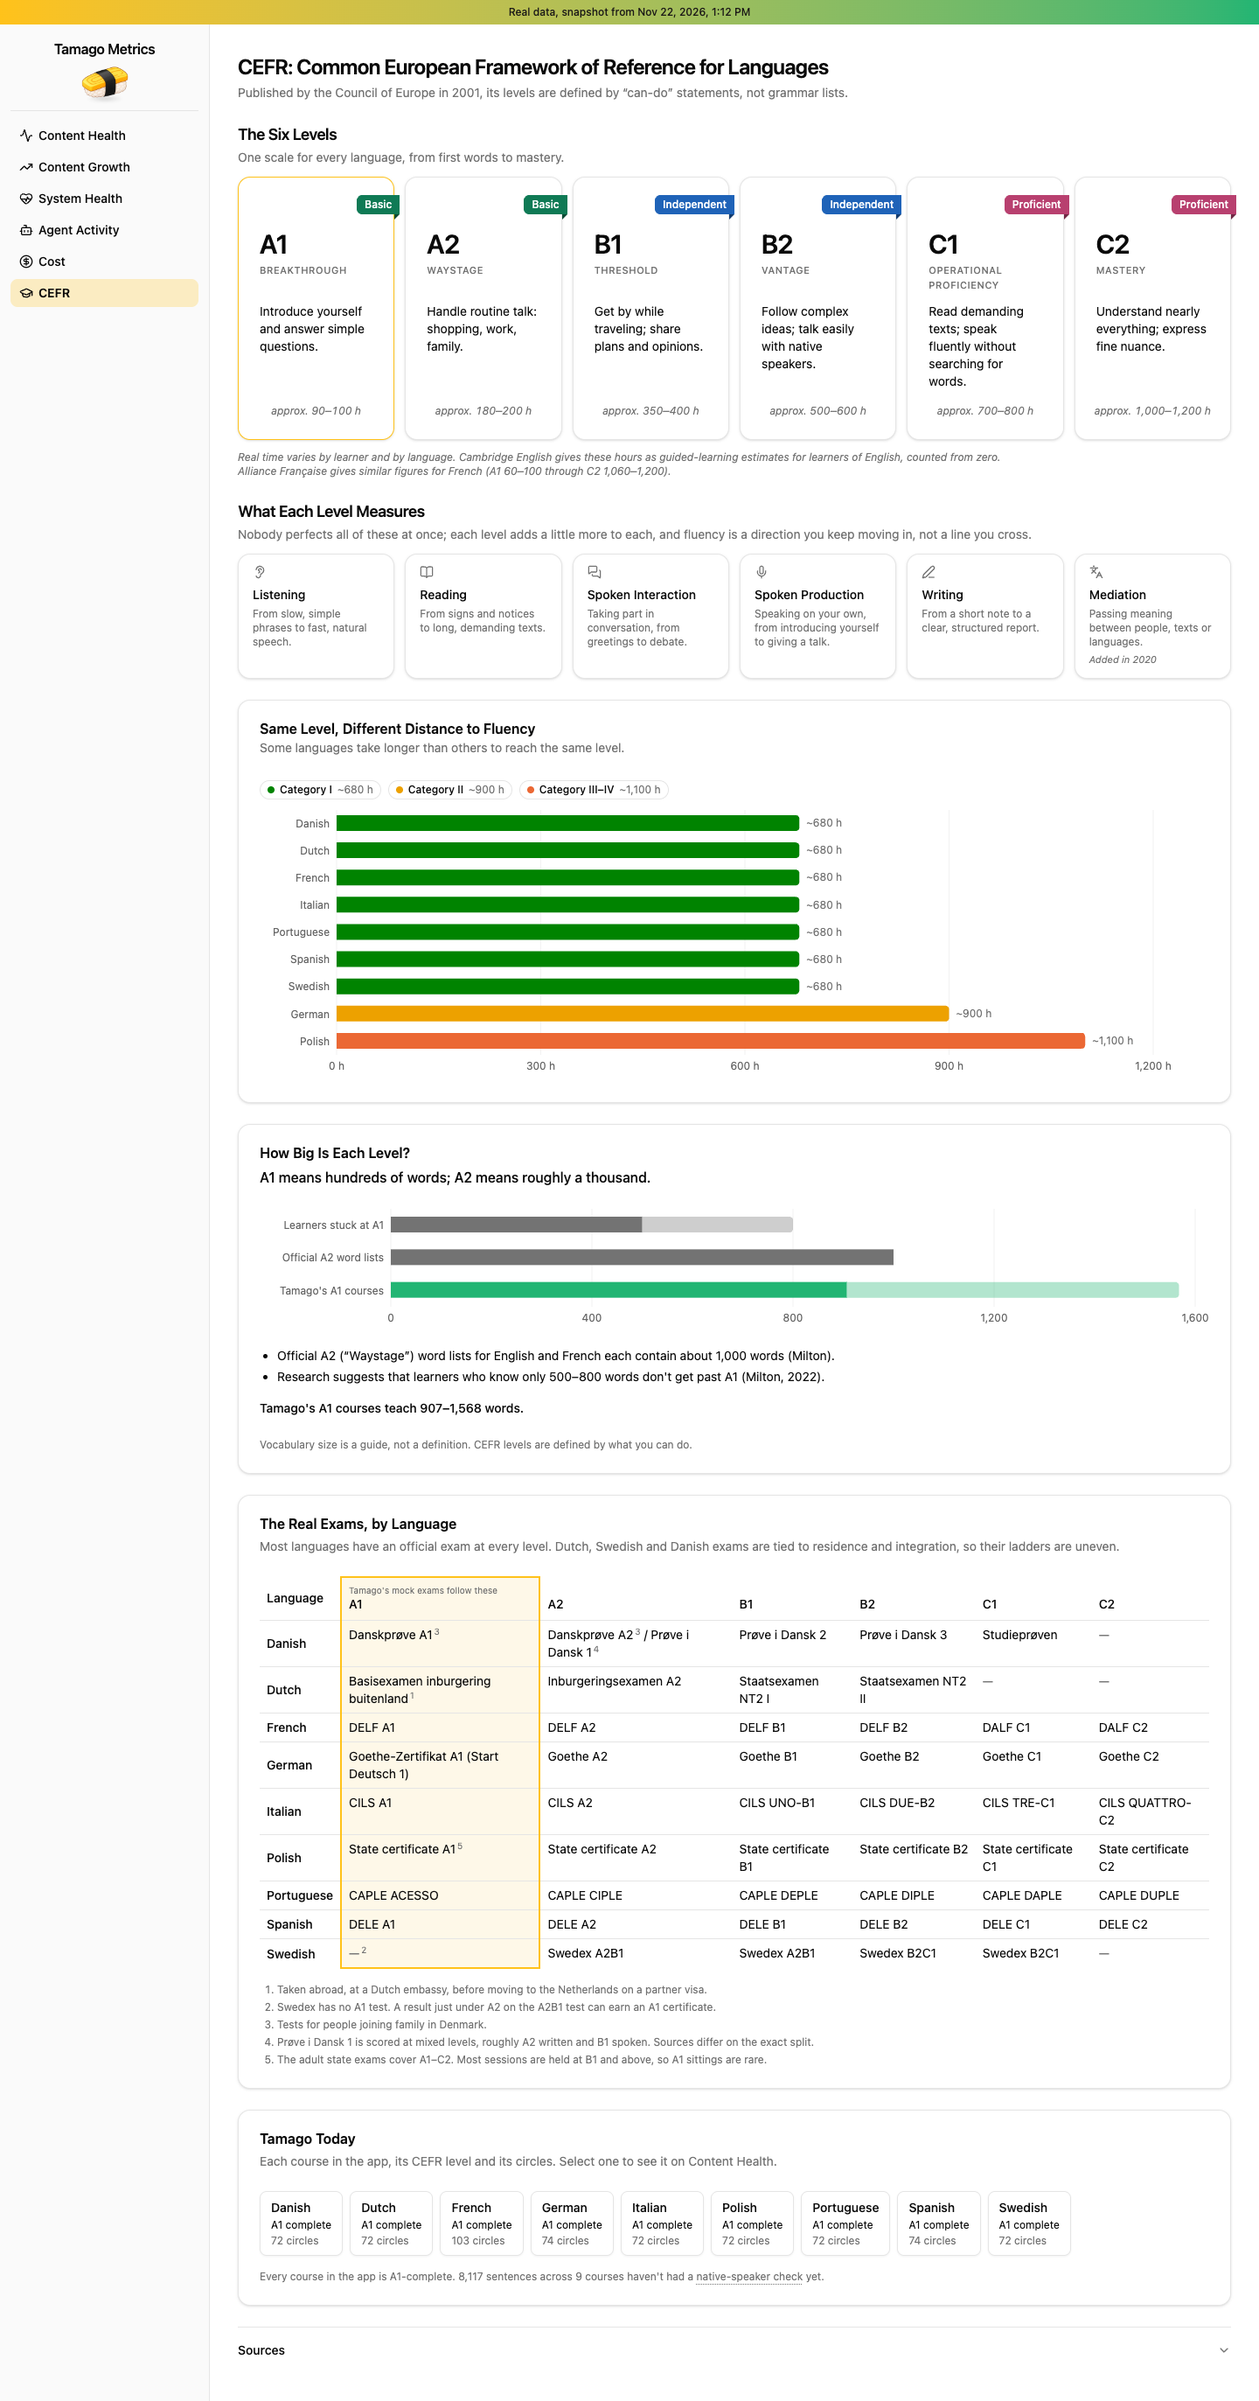
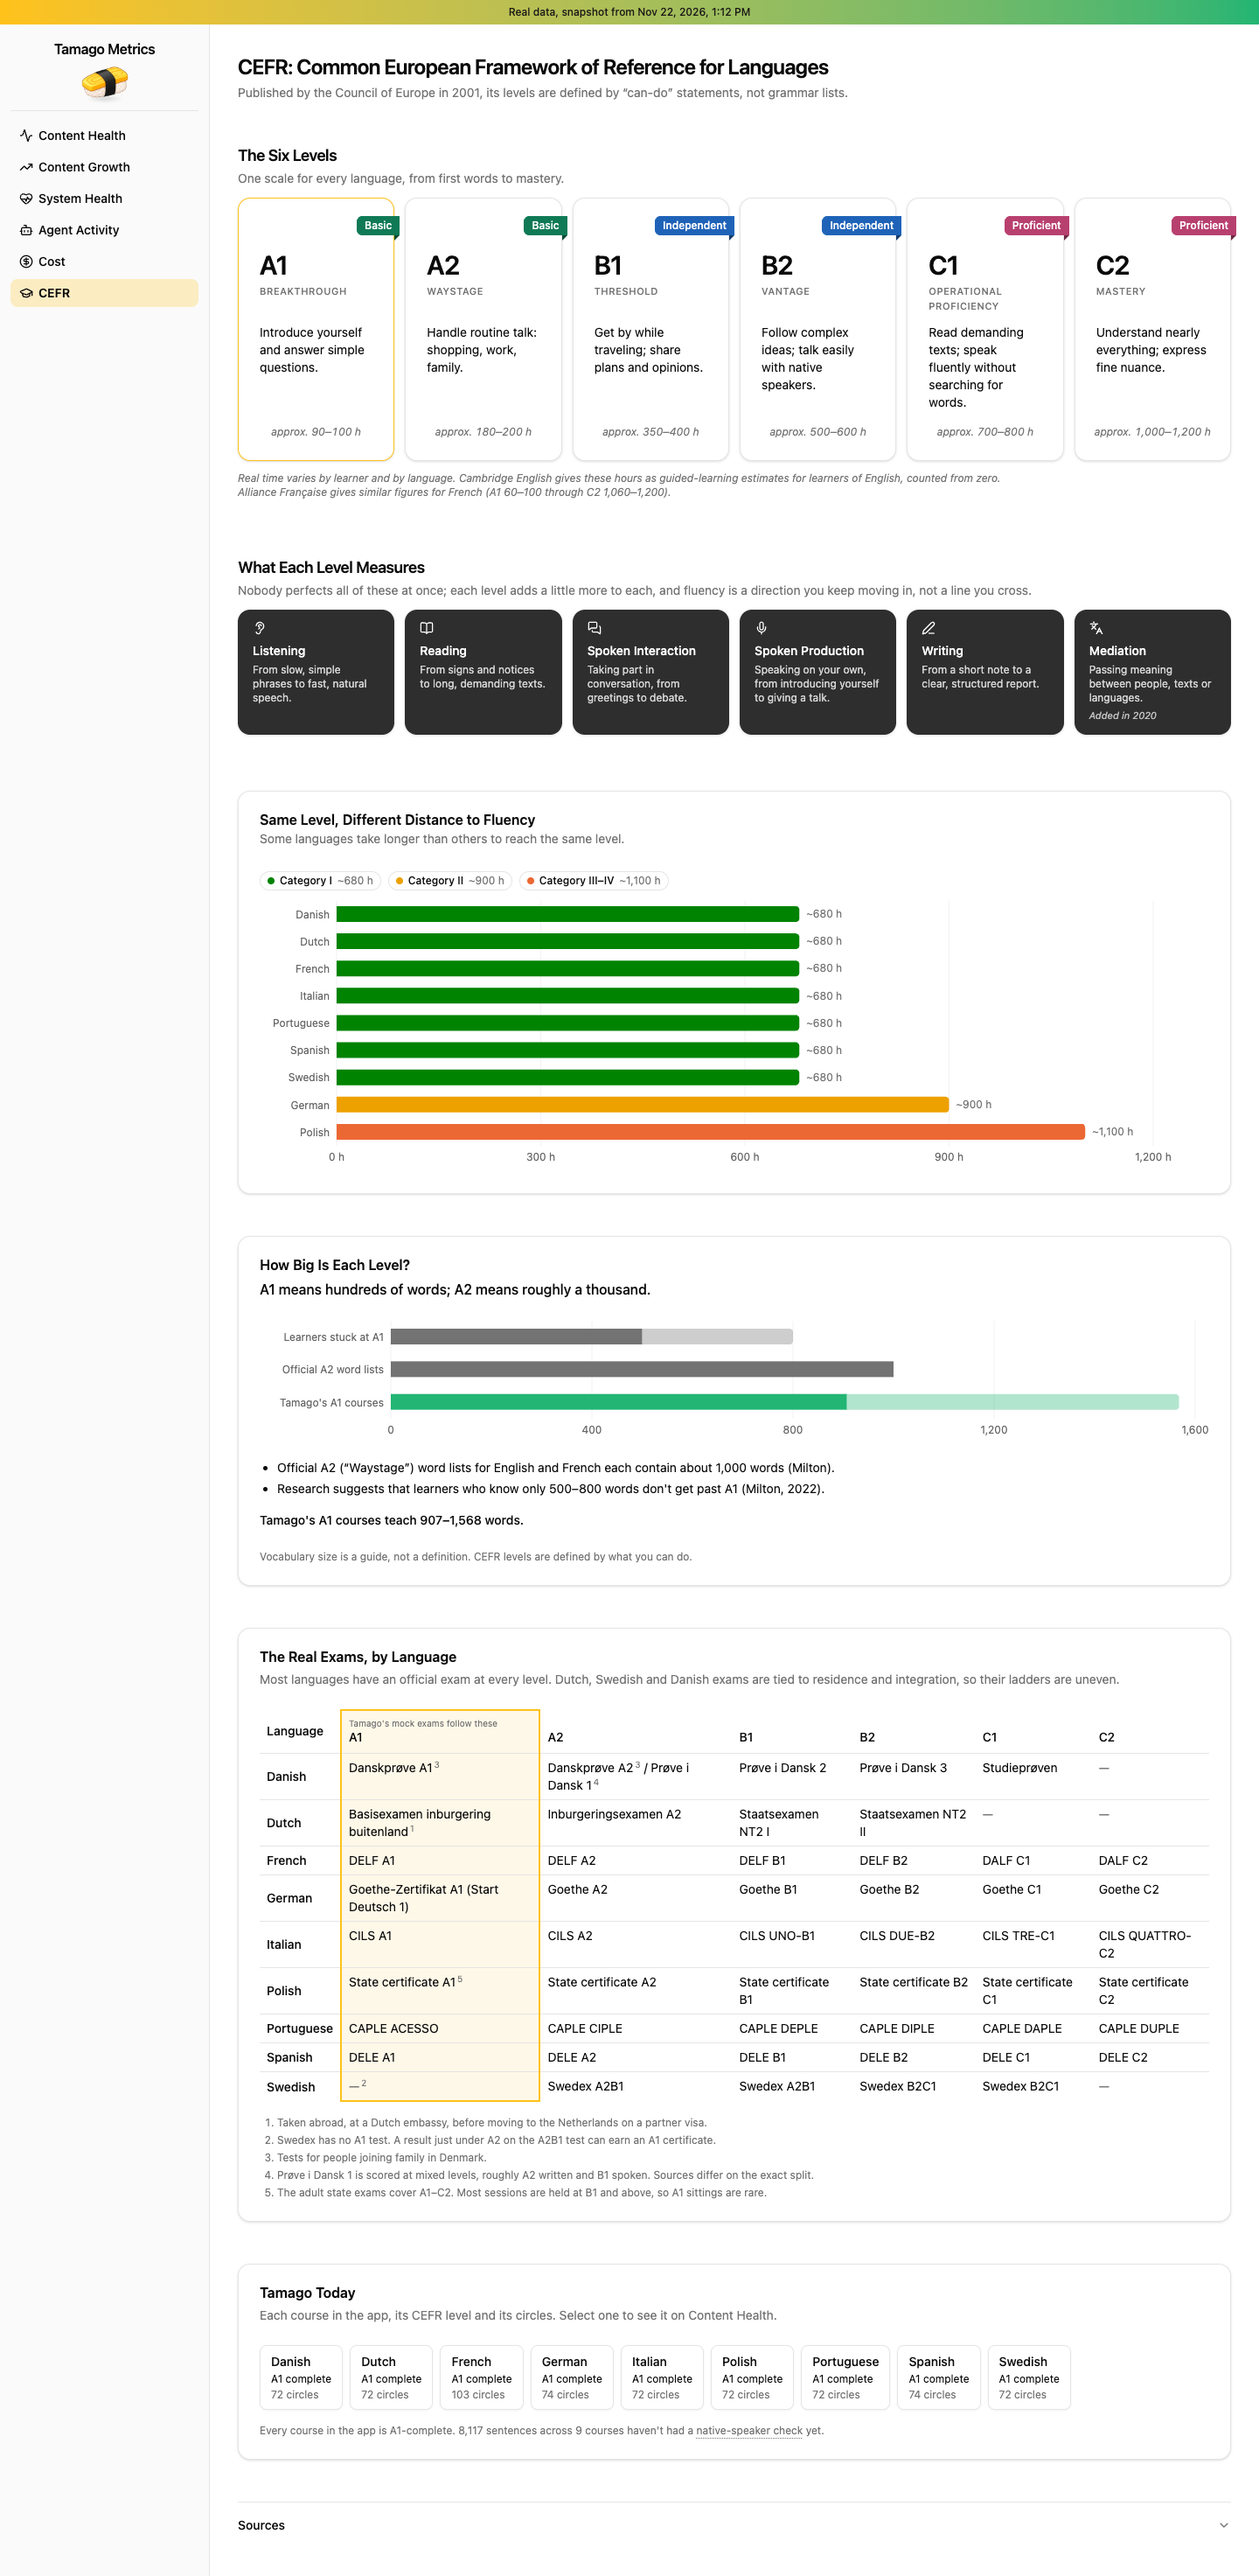
CEFR: skill cards reversed out (white on dark grey), more space between every section

diff --git a/src/layout/PageFrame.tsx b/src/layout/PageFrame.tsx
@@ -15,16 +15,18 @@ interface PageFrameProps {
   notice?: ReactNode
   /** Something small on the right of the title row (desktop); at phone width it wraps below the title. */
   aside?: ReactNode
+  /** More room between the sections (a reading page such as CEFR, rather than a dashboard). */
+  spacious?: boolean
   /** The page's sections, usually `PageSection`s, stacked in order. */
   children: ReactNode
 }
 
 /** The frame every page shares: max width, padding, the header, then the sections in a stack. */
-export function PageFrame({ title, description, sample = false, note, notice, aside, children }: PageFrameProps) {
+export function PageFrame({ title, description, sample = false, note, notice, aside, spacious = false, children }: PageFrameProps) {
   const heading = <h1 className="text-2xl font-semibold tracking-tight">{title}</h1>
 
   return (
-    <div className="mx-auto flex w-full max-w-7xl min-w-0 flex-col gap-6 px-4 py-6 sm:px-6 lg:px-8 lg:py-8">
+    <div className={`mx-auto flex w-full max-w-7xl min-w-0 flex-col px-4 py-6 sm:px-6 lg:px-8 lg:py-8 ${spacious ? 'gap-12' : 'gap-6'}`}>
       <header className="flex min-w-0 flex-col gap-1">
         <div className="flex min-w-0 flex-wrap items-center justify-between gap-x-6 gap-y-2">
           {sample ? (

diff --git a/src/index.css b/src/index.css
@@ -44,6 +44,7 @@
     --color-cefr-independent: var(--cefr-independent);
     --color-cefr-proficient: var(--cefr-proficient);
     --color-cefr-basic-fold: var(--cefr-basic-fold);
+    --color-cefr-skill: var(--cefr-skill);
     --color-cefr-independent-fold: var(--cefr-independent-fold);
     --color-cefr-proficient-fold: var(--cefr-proficient-fold);
     --color-sidebar: var(--sidebar);
@@ -94,6 +95,8 @@
     --cefr-basic: #0f7a55;
     --cefr-independent: #1f63b8;
     --cefr-proficient: #b8406f;
+    /* The CEFR skill cards: reversed out, white on dark grey, to break up the page. */
+    --cefr-skill: #2e2e2e;
     /* The fold under each ribbon (the part that wraps behind the card): the same hues, darker. */
     --cefr-basic-fold: #094a33;
     --cefr-independent-fold: #133c70;
@@ -143,6 +146,8 @@
     --sidebar-accent-foreground: oklch(0.985 0 0);
     --sidebar-border: oklch(1 0 0 / 10%);
     --sidebar-ring: oklch(0.556 0 0);
+    /* A shade lighter than the dark page's cards, so the skill cards still stand apart. */
+    --cefr-skill: #3a3a3a;
 }
 
 @layer base {

diff --git a/src/layout/CefrSkills.tsx b/src/layout/CefrSkills.tsx
@@ -23,12 +23,12 @@ export function CefrSkills() {
           const Icon = SKILL_ICON[skill.id]
           return (
             <li key={skill.id} className="min-w-0">
-              <Card className="h-full py-3">
+              <Card className="h-full border-transparent bg-cefr-skill py-3 text-white">
                 <CardContent className="flex flex-col gap-1 px-4">
-                  <Icon aria-hidden="true" className="mb-1 size-4 text-muted-foreground" />
+                  <Icon aria-hidden="true" className="mb-1 size-4 text-white" />
                   <p className="text-sm font-medium">{skill.name}</p>
-                  <p className="text-xs text-muted-foreground">{skill.line}</p>
-                  {skill.note ? <p className="text-[11px] text-muted-foreground italic">{skill.note}</p> : null}
+                  <p className="text-xs text-white/80">{skill.line}</p>
+                  {skill.note ? <p className="text-[11px] text-white/70 italic">{skill.note}</p> : null}
                 </CardContent>
               </Card>
             </li>

diff --git a/src/pages/CefrPage.tsx b/src/pages/CefrPage.tsx
@@ -25,12 +25,15 @@ export function CefrPage({ distance, vocabulary, exams }: CefrPageProps) {
     <PageFrame
       title={cefrHeader.title}
       description={cefrHeader.subtitle}
+      spacious
     >
       <PageSection label="The Six Levels">
         <CefrLadder />
       </PageSection>
       <PageSection label="What Each Level Measures">
-        <CefrSkills />
+        <div className="py-4">
+          <CefrSkills />
+        </div>
       </PageSection>
       <PageSection label="Same Level, Different Distance">{distance}</PageSection>
       <PageSection label="How Big Is Each Level">{vocabulary}</PageSection>
